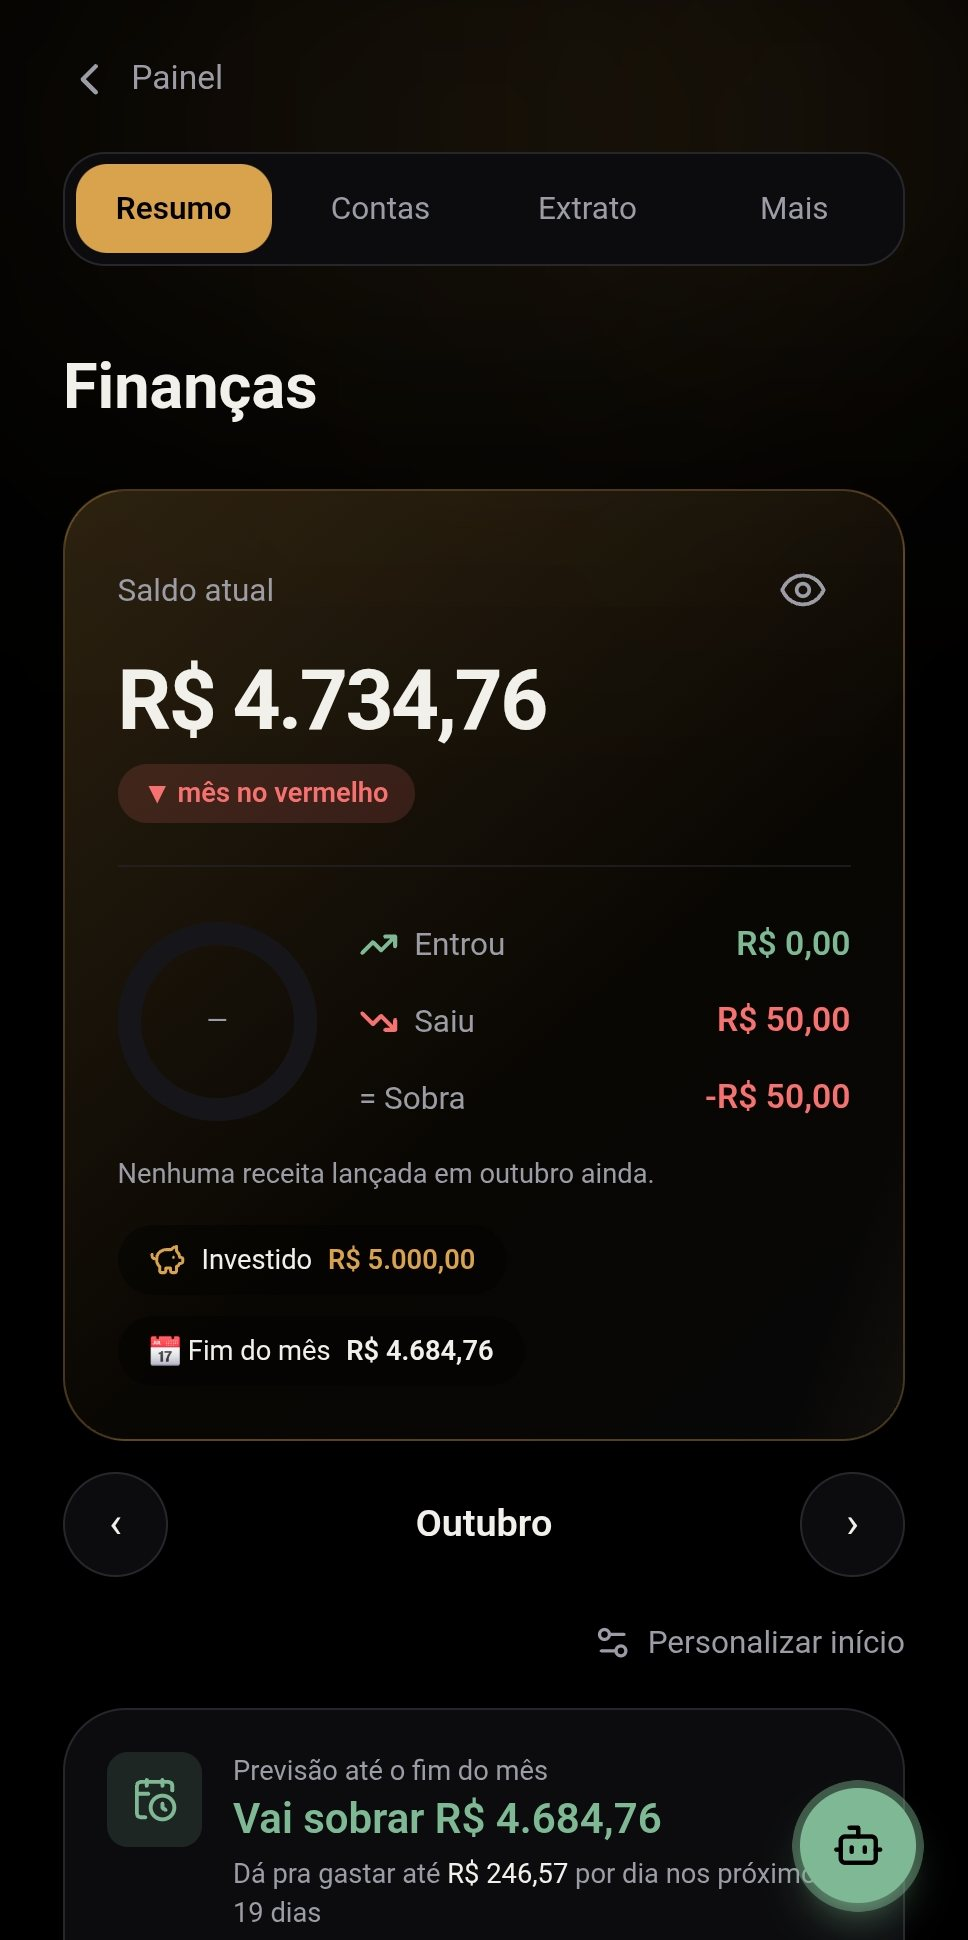
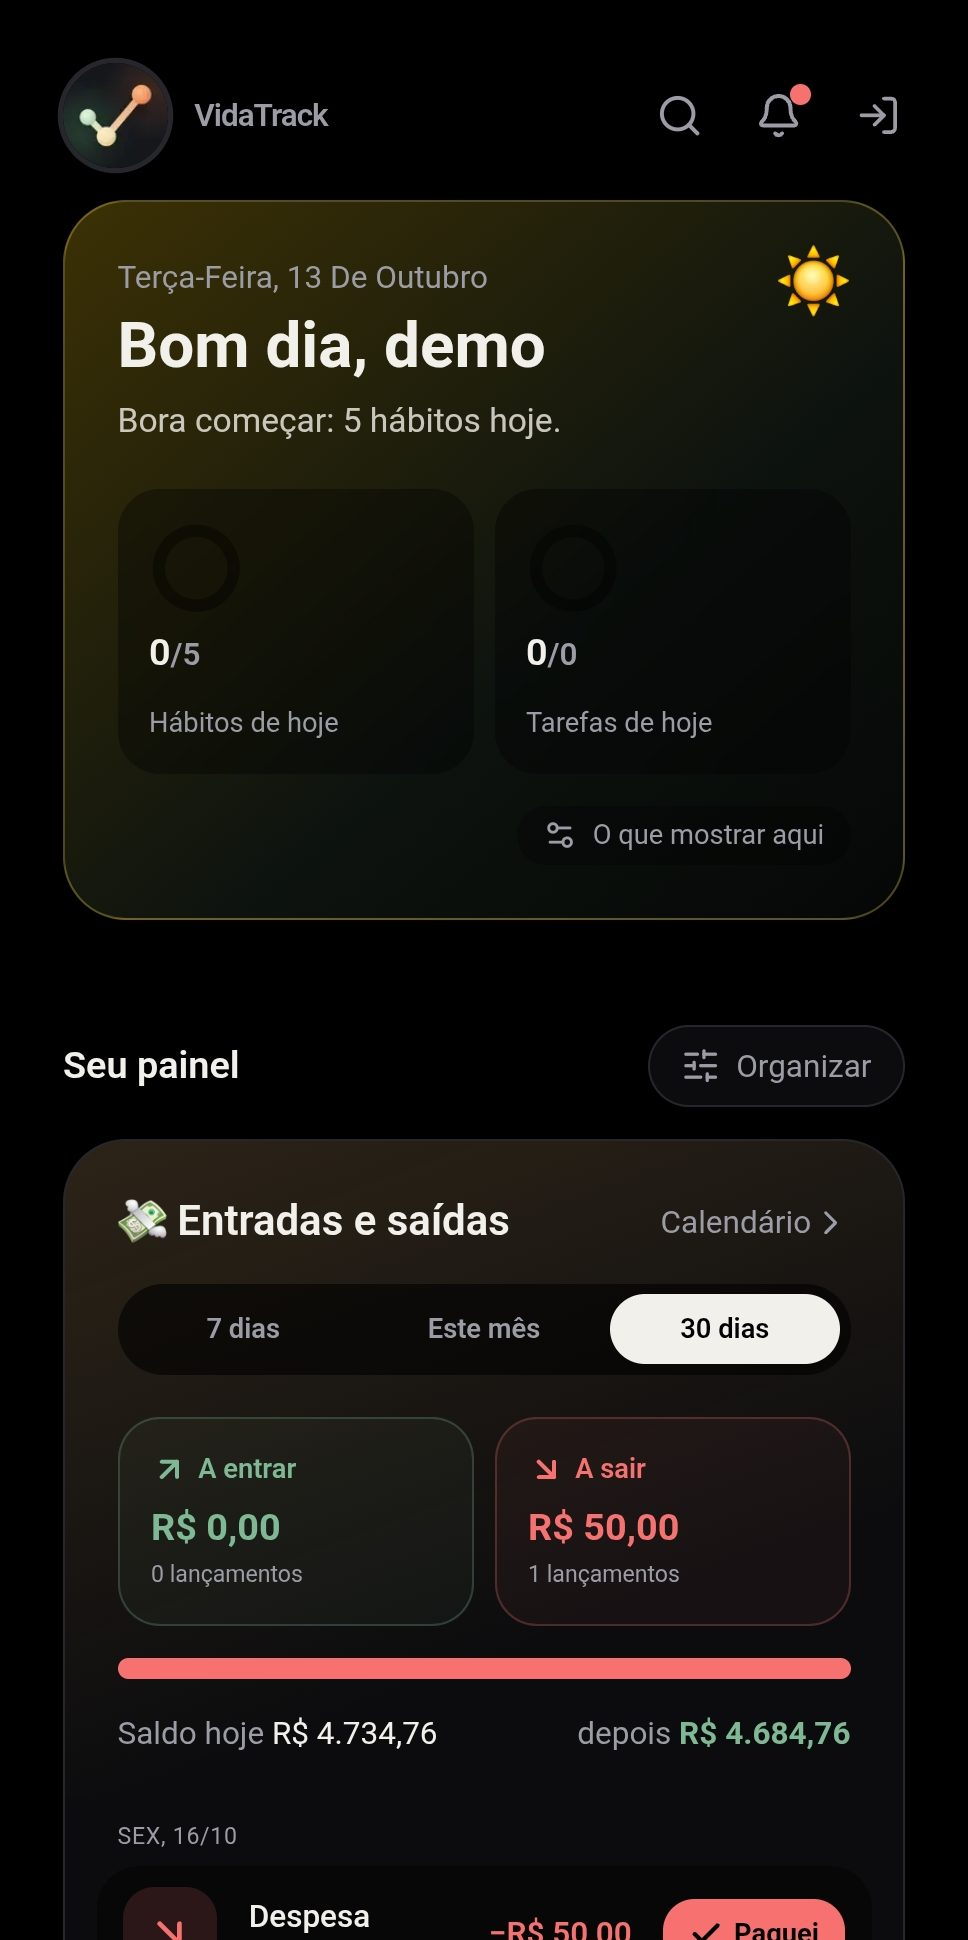
Etapa 321: corrige imagem inicio-fluxo da apresentação

diff --git a/app/apresentacao/page.tsx b/app/apresentacao/page.tsx
@@ -8,7 +8,7 @@ import { DemoMundo } from "@/components/DemoMundo";
 import { RedirecionarAppInstalado } from "@/components/RedirecionarAppInstalado";
 
 // Etapa 319 — apresentação nova: os hábitos viram um jogo (mascote,
-// ilha, casa, missões, conquistas). Sem falar em "gratuito" nem "apoiar".
+// ilha, casa, missões, conquistas). Sem falar em "gratuito".
 export const metadata = {
   title: "VidaTrack — Seus hábitos viram um jogo",
   description:
@@ -528,6 +528,7 @@ export default function ApresentacaoPage() {
               <p className="text-xs uppercase tracking-widest text-ink-400/70 mb-3">Legal</p>
               <div className="flex flex-col gap-2 text-sm text-ink-400">
                 <Link href="/privacidade" className="hover:text-ink-100 transition">Privacidade</Link>
+                <Link href="/doacao" className="hover:text-ink-100 transition">Apoiar o projeto</Link>
               </div>
             </div>
           </div>

diff --git a/app/doacao/page.tsx b/app/doacao/page.tsx
@@ -25,9 +25,10 @@ export default function DoacaoPage() {
         <p className="text-3xl mb-3">💛</p>
         <h1 className="text-3xl font-display font-bold mb-2">Apoie o VidaTrack</h1>
         <p className="text-ink-400 text-sm mb-8">
-          O app é e sempre vai ser gratuito. Se ele te ajuda no dia a dia
-          e você quiser contribuir com os custos de manter tudo no ar,
-          fica aqui um Pix — sem nenhuma obrigação.
+          Manter o VidaTrack rodando tem custo: servidor, banco de dados,
+          notificações e as publicações nas lojas. Se o app te ajuda no dia
+          a dia e você quiser ajudar a manter tudo no ar, fica aqui um Pix
+          de qualquer valor — sem nenhuma obrigação.
         </p>
       </div>
 

diff --git a/app/dashboard/page.tsx b/app/dashboard/page.tsx
@@ -228,6 +228,9 @@ export default function DashboardPage() {
       </div>
 
       <div className="flex flex-wrap items-center justify-center gap-x-2 mt-8">
+        <Link href="/doacao" className="text-xs text-ink-400 hover:text-ink-100 transition px-3 py-2.5 -m-1">
+          💛 Apoiar o projeto
+        </Link>
         <Link href="/ajuda" className="text-xs text-ink-400 hover:text-ink-100 transition px-3 py-2.5 -m-1">
           Ajuda
         </Link>
